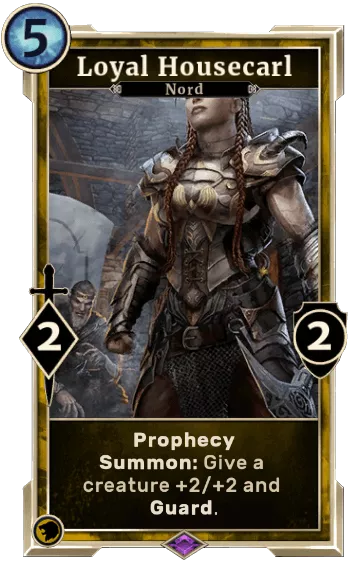
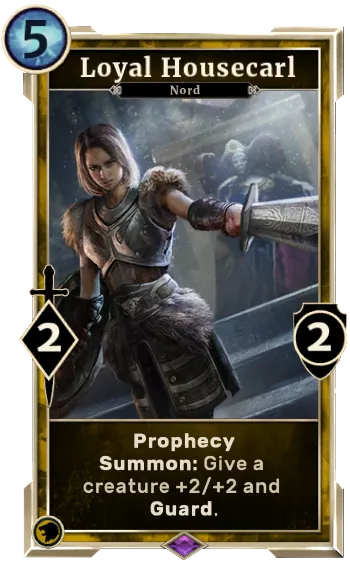
Fixes. update LoyalHouseCarl image

diff --git a/app/src/main/kotlin/com/ediposouza/teslesgendstracker/ui/decks/NewDeckCardsListFragment.kt b/app/src/main/kotlin/com/ediposouza/teslesgendstracker/ui/decks/NewDeckCardsListFragment.kt
@@ -51,16 +51,12 @@ class NewDeckCardsListFragment : CardsAllFragment() {
         cards_recycler_view.setPadding(0, 0, 0, 0)
         isFragmentSelected = true
         arguments.getParcelable<Deck>(EXTRA_DECK)?.apply {
-            PublicInteractor.getCards(null, cls.attr1, cls.attr2, CardAttribute.DUAL, CardAttribute.NEUTRAL) {
-                loadDeckCards(cards, it)
-            }
-        }
-    }
-
-    private fun loadDeckCards(cards: Map<String, Int>, clsCards: List<Card>) {
-        cards.forEach { cardShortName, qtd ->
-            clsCards.find { it.shortName == cardShortName }?.apply {
-                cardsAdapter.updateCardSlot(CardSlot(this, qtd))
+            PublicInteractor.getCards(null, cls.attr1, cls.attr2, CardAttribute.DUAL, CardAttribute.NEUTRAL) { clsCards ->
+                cards.forEach { (cardShortName, qtd) ->
+                    clsCards.find { it.shortName == cardShortName }?.apply {
+                        cardsAdapter.updateCardSlot(CardSlot(this, qtd))
+                    }
+                }
             }
         }
     }

diff --git a/app/src/main/kotlin/com/ediposouza/teslesgendstracker/data/Card.kt b/app/src/main/kotlin/com/ediposouza/teslesgendstracker/data/Card.kt
@@ -393,9 +393,14 @@ data class Card(
         }
 
         private const val CARD_PATH = "Cards"
+        private val CARD_BACK = "card_back.png"
 
         fun getDefaultCardImage(context: Context): Bitmap {
-            return BitmapFactory.decodeResource(context.resources, R.drawable.card_back)
+            try {
+                return BitmapFactory.decodeStream(context.resources.assets.open(CARD_BACK))
+            } catch (e: Exception) {
+                return BitmapFactory.decodeResource(context.resources, R.drawable.card_back)
+            }
         }
 
         fun loadCardImageInto(view: ImageView, cardSet: String, cardAttr: String,

diff --git a/app/src/release/java/com/ediposouza/teslesgendstracker/util/MetricsManager.kt b/app/src/release/java/com/ediposouza/teslesgendstracker/util/MetricsManager.kt
@@ -139,6 +139,7 @@ object MetricsManager : MetricsConstants() {
                     putString(action.PARAM_PATH, action.path)
                     putString(action.PARAM_PATH_PARAMS, action.params)
                 }
+                is MetricAction.ACTION_SHARE -> answers?.logShare(ShareEvent())
             }
         }
         answers?.logCustom(CustomEvent(action.name))
